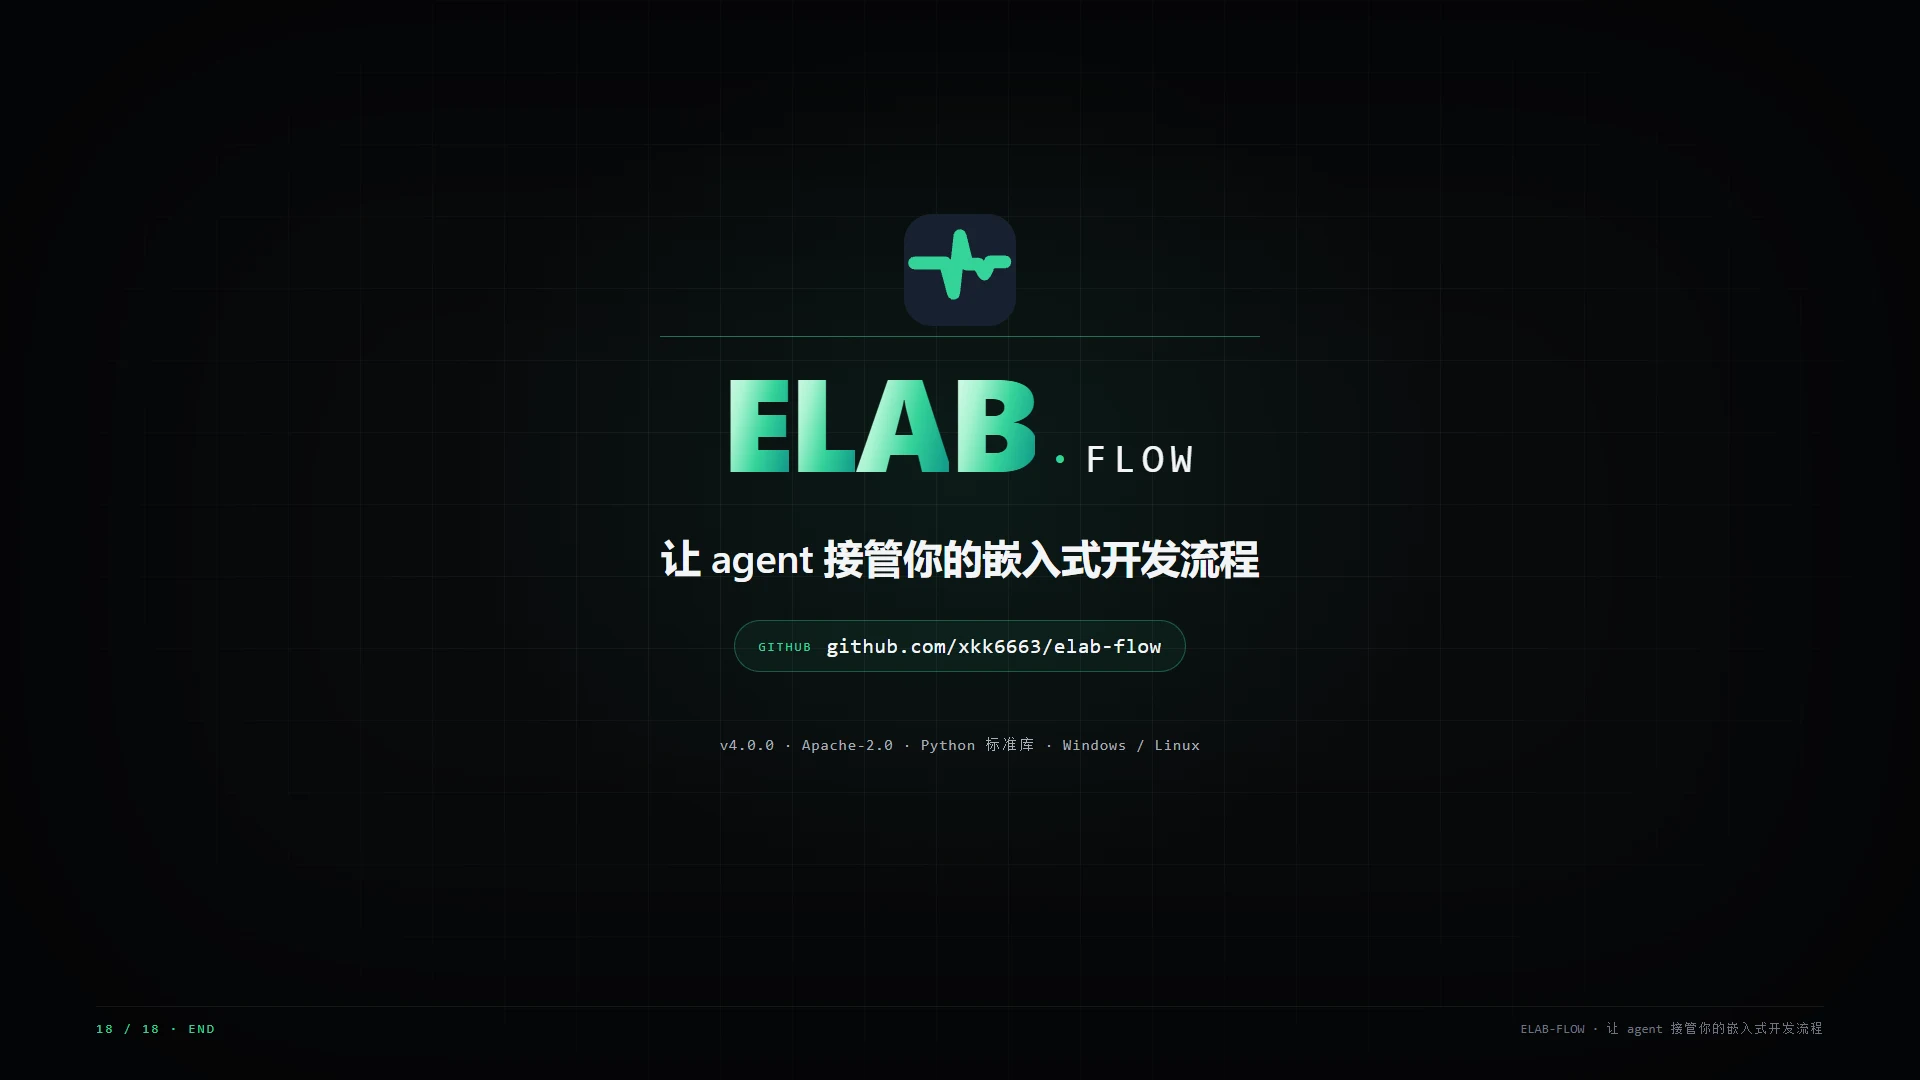
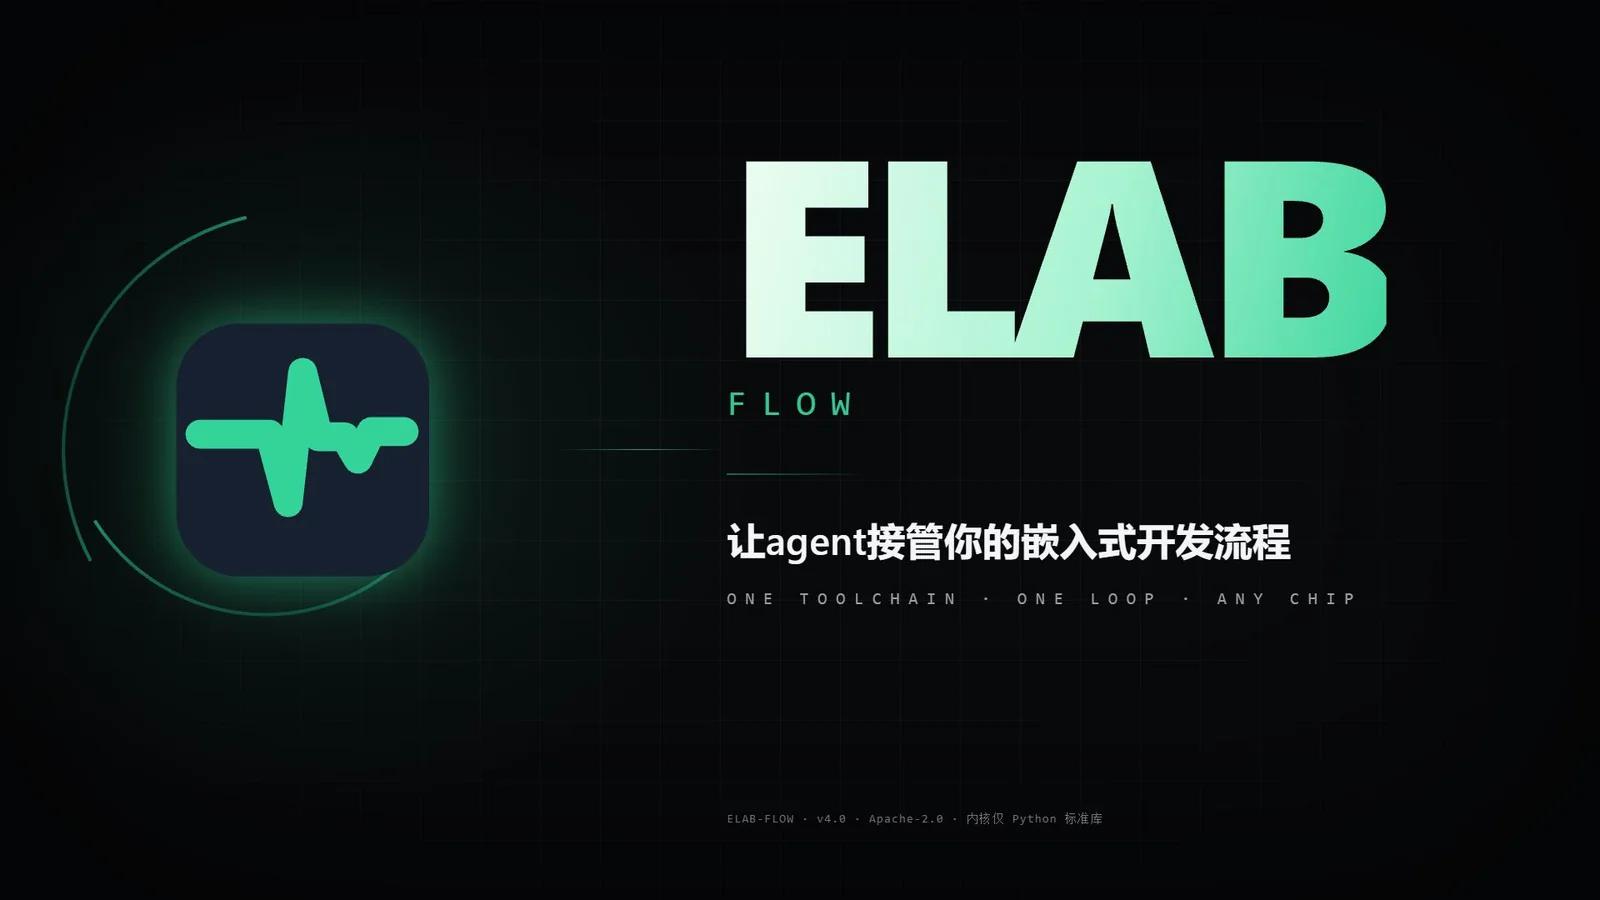
feat(site): 换新宣传片与封面；publish 搬回未入库的大媒体
- 宣传片重制为 1080p50 / 1:29（源片 107MB 超 GitHub 单文件 100MiB，转码后 9.0MB，
  与源片 SSIM 0.995：深色静态 UI 为主，低码率不影响清晰度）
- 封面换为 ELAB-封面.jpg 转出的 1600x900 webp；页面时长标注 1:25 → 1:29
- publish.py：新树按本地 site/ 全量重建，而 assets/video/ 被 .gitignore 排除，
  CI 检出时没有该文件 → 每次自动发布都会把视频从 gh-pages 删掉（线上已 404）。
  改为从父提交搬回 CARGO_PREFIXES 下本地缺失的 blob

diff --git a/site/index.html b/site/index.html
@@ -156,9 +156,9 @@
         </span>
         <span class="promo-card-meta">
           <span class="promo-card-title">ELAB&middot;FLOW 产品宣传片</span>
-          <span class="promo-card-sub">13 章 &middot; 从自动接入到五段闭环的实机证据</span>
+          <span class="promo-card-sub">15 镜 &middot; 从自动接入到五段闭环的实机证据</span>
         </span>
-        <span class="promo-card-badge">1:59 &middot; 1080p</span>
+        <span class="promo-card-badge">1:29 &middot; 1080p</span>
       </button>
     </div>
   </section>
@@ -838,7 +838,7 @@ $ ./elab loop -p stm32f411ceu6 -v
 <div class="promo-modal" id="promoModal" hidden>
   <div class="promo-dialog" role="dialog" aria-modal="true" aria-label="ELAB-Flow 产品宣传片">
     <div class="promo-head">
-      <span class="promo-title"><b>ELAB&middot;FLOW</b> 产品宣传片<span class="promo-meta">1 分 59 秒 &middot; 1080p</span></span>
+      <span class="promo-title"><b>ELAB&middot;FLOW</b> 产品宣传片<span class="promo-meta">1 分 29 秒 &middot; 1080p</span></span>
       <button class="promo-close" id="promoClose" type="button" aria-label="关闭宣传片">
         <svg viewBox="0 0 24 24" fill="none" stroke="currentColor" stroke-width="2" stroke-linecap="round" stroke-linejoin="round"><path d="M6 6l12 12M18 6L6 18"/></svg>
       </button>

diff --git a/site/publish.py b/site/publish.py
@@ -18,6 +18,12 @@ ROOT = Path(__file__).resolve().parent.parent
 SITE = ROOT / "site"
 BRANCH = "gh-pages"
 
+# 这些目录被 .gitignore 排除、不入仓库，CI 检出时本地不存在。
+# 发布又是“以本地 site/ 全量重建树”，于是父提交里有、本地没有的文件会被静默删掉
+# （2026-11 宣传片就是这样从 gh-pages 消失、线上变 404 的）。
+# 所以父提交里存在、本地缺失的媒体要原样搬回来。
+CARGO_PREFIXES = ("assets/video/",)
+
 
 def run(args: list[str], env: dict | None = None, check: bool = True) -> subprocess.CompletedProcess:
     p = subprocess.run(args, cwd=str(ROOT), env=env, capture_output=True, text=True, encoding="utf-8")
@@ -27,7 +33,44 @@ def run(args: list[str], env: dict | None = None, check: bool = True) -> subproc
     return p
 
 
+def resolve_parent() -> str:
+    """当前 gh-pages 头（本地先、远端后），作为新提交的父提交与搬运来源。"""
+    cur = run(["git", "rev-parse", "--verify", "-q", f"refs/heads/{BRANCH}"], check=False)
+    if cur.returncode == 0 and cur.stdout.strip():
+        return cur.stdout.strip()
+    remote = run(["git", "ls-remote", "origin", f"refs/heads/{BRANCH}"], check=False)
+    if remote.returncode == 0 and remote.stdout.strip():
+        return remote.stdout.split()[0]
+    return ""
+
+
+def carry_over(env: dict, parent: str) -> list[str]:
+    """把父提交里 CARGO_PREFIXES 下、本地不存在的 blob 原样塞回新树。"""
+    if not parent:
+        return []
+    out = run(["git", "ls-tree", "-r", parent], check=False)
+    if out.returncode != 0:
+        return []
+    kept: list[str] = []
+    for line in out.stdout.splitlines():
+        meta, _, path = line.partition("\t")
+        parts = meta.split()
+        if len(parts) != 3:
+            continue
+        mode, typ, blob = parts
+        if typ != "blob" or not path.startswith(CARGO_PREFIXES):
+            continue
+        if (SITE / path).exists():
+            continue
+        run(["git", "update-index", "--add", "--cacheinfo", f"{mode},{blob},{path}"], env=env)
+        kept.append(path)
+    return kept
+
+
 def main() -> None:
+    # 父提交要先取：既用于 commit-tree -p，也是“本地缺失媒体”的搬运来源
+    parent = resolve_parent()
+
     files: list[str] = []
     for p in sorted(SITE.rglob("*")):
         if p.is_dir():
@@ -46,31 +89,22 @@ def main() -> None:
     for rel in files:
         blob = run(["git", "hash-object", "-w", str(SITE / rel)]).stdout.strip()
         run(["git", "update-index", "--add", "--cacheinfo", f"100644,{blob},{rel}"], env=env)
+    carried = carry_over(env, parent)
     tree = run(["git", "write-tree"], env=env).stdout.strip()
 
     # .nojekyll 必须存在，否则 GitHub Pages 会走 Jekyll
     if ".nojekyll" not in files:
-        blob = run(["git", "hash-object", "-w", "--stdin"], env=env).stdout.strip() if False else ""
         print("警告：缺少 .nojekyll")
 
     msg = "site: ELAB-Flow 官网（首页 / 文档 / 芯片包市场）"
-
-    # 以现有 gh-pages 为父提交，保证可以 fast-forward（避免每次都是孤立根提交）
-    parent = ""
-    cur = run(["git", "rev-parse", "--verify", "-q", f"refs/heads/{BRANCH}"], check=False)
-    if cur.returncode == 0:
-        parent = cur.stdout.strip()
-    if not parent:
-        remote = run(["git", "ls-remote", "origin", f"refs/heads/{BRANCH}"], check=False)
-        if remote.returncode == 0 and remote.stdout.strip():
-            parent = remote.stdout.split()[0]
 
     cmd = ["git", "commit-tree", tree]
     if parent:
         cmd += ["-p", parent]
     commit = run(cmd + ["-m", msg]).stdout.strip()
     run(["git", "update-ref", f"refs/heads/{BRANCH}", commit])
-    print(f"tree {tree[:8]} commit {commit[:8]} parent {(parent[:8] or '-')} · {len(files)} files")
+    note = f" · 搬运 {len(carried)} 个媒体" if carried else ""
+    print(f"tree {tree[:8]} commit {commit[:8]} parent {(parent[:8] or '-')} · {len(files)} files{note}")
     push = run(["git", "push", "origin", f"{BRANCH}:{BRANCH}"], check=False)
     print(push.stdout.strip() or push.stderr.strip())
 
